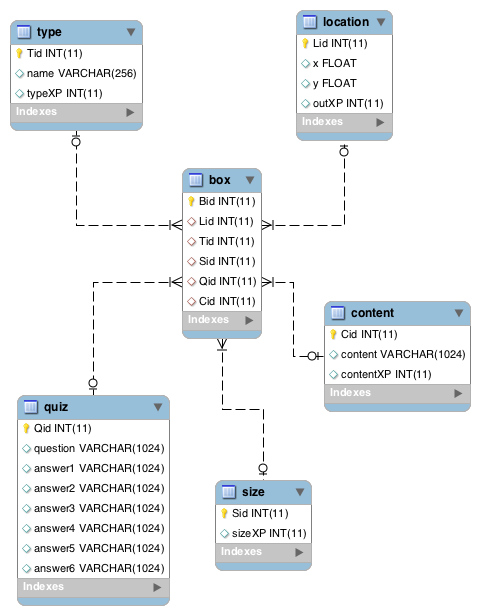
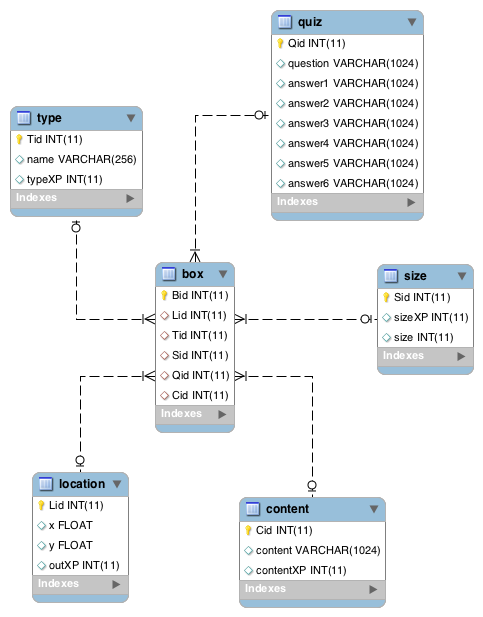
updated server DB model, er graphic etc.

diff --git a/Server/src/db/manager/DatabaseManager.java b/Server/src/db/manager/DatabaseManager.java
@@ -93,7 +93,8 @@ public class DatabaseManager {
 		for (Record r : result) {
 			Integer id = r.getValue(SIZE.SID);
 			Integer exp = r.getValue(SIZE.SIZEXP);
-			Size tmp = new Size(id,exp, 0); //TODO at the moment third value 0 because no in DB included
+			Integer size = r.getValue(SIZE.SIZE_);
+			Size tmp = new Size(id,exp, size);
 			out.add(tmp);
 		}
 
@@ -155,15 +156,15 @@ public class DatabaseManager {
 			Type type = null;
 			Size size = getSizeFromId(sid);
 			Content content = null;
-			if (cid != null) {
+			/*if (cid != null) {
 				 content = getConntentFromId(cid);
-			}
+			}*/
 			if (qid != null) {
 				Quiz quiz = getQuizFromId(qid);
 				type = setTypeAttributesFromId(tid, quiz);
 			}
 			
-			Treasure tmp = new Treasure(id, 0, location, type, size, content); //TODO exp not set, model??
+			Treasure tmp = new Treasure(id, 0, location, type, size, null); //exp not  yet set
 			out.add(tmp);
 		}
 		
